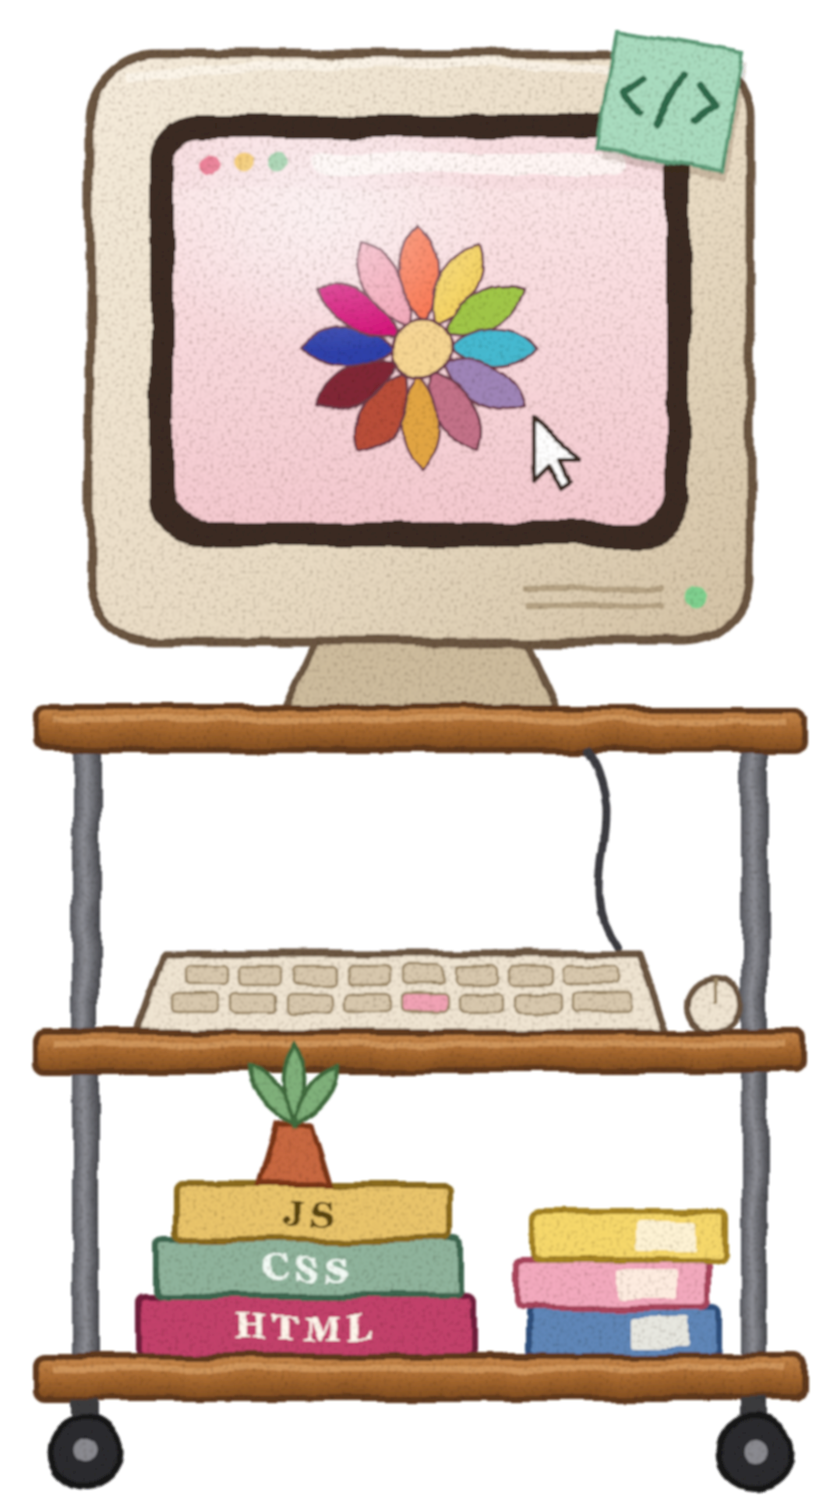
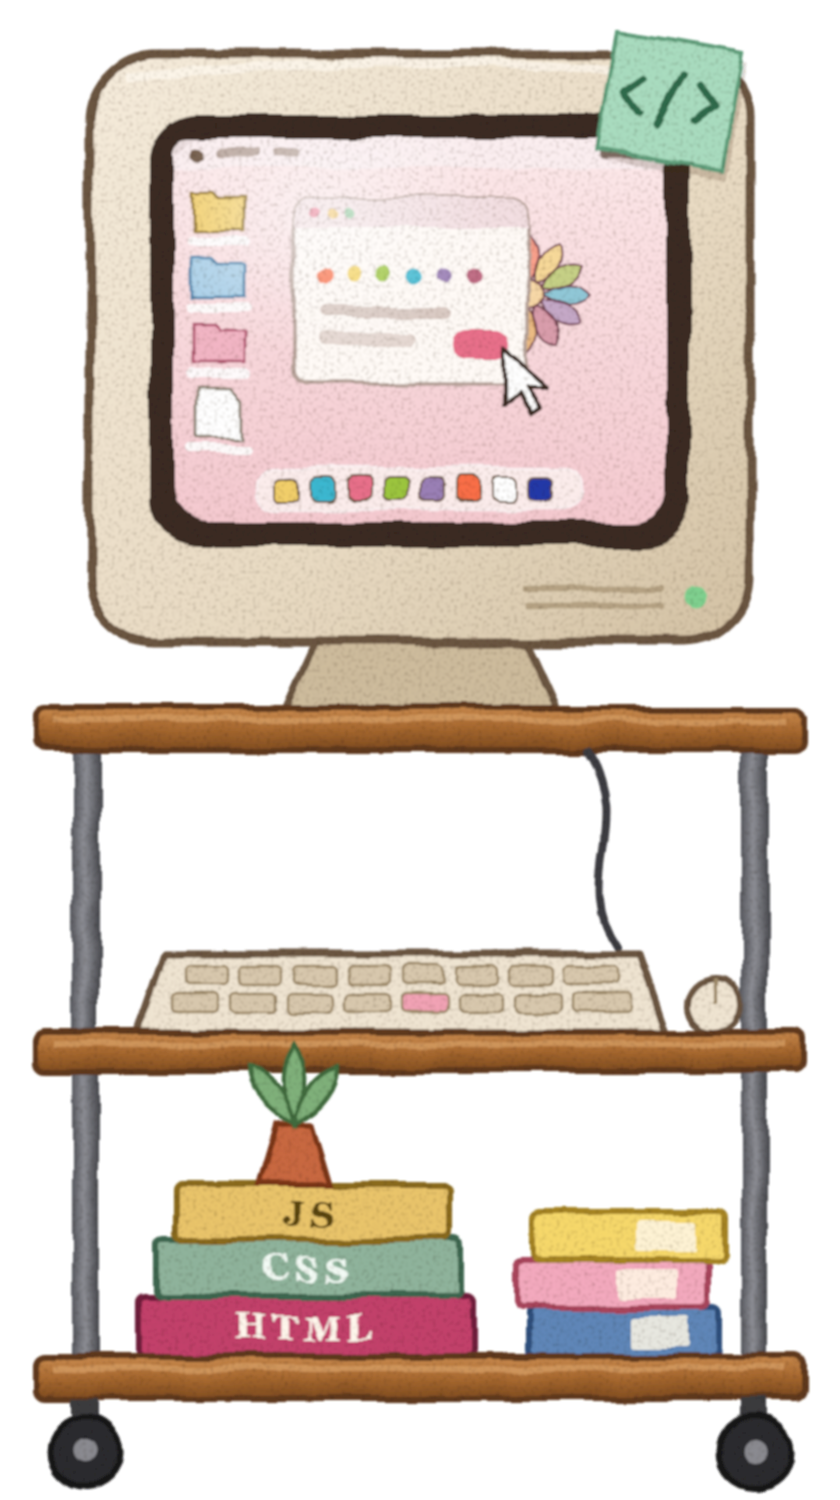
Phone wall v3 to Rihanna's draft: tall noteboard, vertical flowers, horizontal Games & VR shelf
- Phone-only drawings via <picture>: tall cork noteboard with upright notes, a vertical flower
  structure cut from the original flowers, a horizontal two-tier Games & VR shelf built from the
  original shelf's painted pieces + the Quest 3
- Software monitor now shows a computer desktop (desktop + phone)
- New phone placements, vertical labels, re-aimed night spotlight + beams; desktop unchanged

diff --git a/style.css b/style.css
@@ -3571,3 +3571,65 @@ body.lights-init *, body.lights-init *::before, body.lights-init *::after { tran
 .art-item       { filter: saturate(1.08) contrast(1.02) sepia(0.06); }
 .shelf-item     { filter: saturate(1.1) sepia(0.06); }
 .lighting-item  { filter: sepia(0.04); }
+
+/* ═══════════════════════════════════════════════════════════
+   PHONE WALL v3 — laid out to Rihanna's draft (all sizes in vw, from the draft's proportions).
+   Top → bottom: track lights · portrait + nameplate (left) with a tall noteboard, a vertical
+   flower structure and the light switch down the right · a horizontal Games & VR shelf beside
+   the 3D model shelf · the software cart and the easel (its chair running off the right edge).
+   The noteboard, flowers and game shelf use phone-only drawings (<picture> in index.html).
+   ═══════════════════════════════════════════════════════════ */
+@media (max-width: 768px) {
+  :root { --drop: 0vw; }
+  .wall { height: max(calc(var(--top) + 237.6vw), 100vh); }   /* the page ends at the bottom row */
+
+  .lighting-item  { --cw: 71vw; --ar: 0.204; --x0: .127; --x1: .876; --y0: .207; --y1: .844;
+                    top: calc(var(--top) + 7.6vw); left: 14.7vw; }
+  .portrait-item  { top: calc(var(--top) + 24.7vw); left: 3vw; width: 69vw; }
+  .frame-inner    { --fw: 69vw; }
+
+  /* right column: tall noteboard → vertical flowers → light switch */
+  .noteboard-item { --cw: 20vw; --ar: 1.889; --x0: .01; --x1: .99; --y0: .006; --y1: .994;
+                    top: calc(var(--top) + 28.8vw); left: 74.7vw; }
+  .flowers-item   { --cw: 24vw; --ar: 1.395; --x0: .03; --x1: .95; --y0: .04; --y1: .99;
+                    top: calc(var(--top) + 72vw); left: 70.5vw; }
+  .switch-item    { --cw: 9vw; --ar: 1.56;
+                    top: calc(var(--top) + 110vw); left: 77.6vw; }
+
+  /* middle row: horizontal Games & VR shelf + the 3D model shelf */
+  .gametable-item { --cw: 51vw; --ar: 0.643; --x0: .007; --x1: .993; --y0: .025; --y1: 1;
+                    top: calc(var(--top) + 124vw); bottom: auto; left: 2.4vw; }
+  .gametable-overlay { display: none; }                         /* the Quest 3 is in the phone drawing */
+  .gametable-img:not(.gametable-overlay) { -webkit-mask: none; mask: none; }
+  .shelf-item     { --cw: 43vw; --ar: 0.491; --x0: .025; --x1: .983; --y0: .058; --y1: .947;
+                    top: calc(var(--top) + 131vw); left: 54.7vw; }
+
+  /* bottom row: the software cart + the easel, both running off the bottom of the page */
+  .software-item  { --cw: 46vw; top: calc(var(--top) + 158vw); bottom: auto; left: 2.4vw; }
+  .art-item       { --cw: 59.5vw; --ar: 0.75; --x0: .188; --x1: .751; --y0: .053;
+                    top: auto; bottom: 0; left: 50.5vw; }           /* the screen edge runs through the chair */
+
+  /* labels */
+  .lighting-item .hover-label { bottom: -2.4vw; }
+  .noteboard-item .hover-label,
+  .flowers-item .hover-label {                                     /* read bottom-to-top, like the draft */
+    writing-mode: vertical-rl;
+    top: 50%; bottom: auto;
+    padding: 10px 3px;
+  }
+  .noteboard-item .hover-label { left: auto; right: -2vw; transform: translateY(-50%) rotate(180deg); }
+  .flowers-item .hover-label   { left: -3vw; right: auto; transform: translateY(-50%) rotate(180deg); }
+  .gametable-item .hover-label { top: 44%; bottom: auto; left: 0; right: 0; }
+  .shelf-item .hover-label     { bottom: -2.4vw; }
+  .software-item .hover-label  { top: 30%; bottom: auto; left: 0; right: 0; }
+  .art-item .hover-label       { top: 46%; bottom: auto; left: 0; right: calc(100% - 43.4vw); }
+
+  /* night: the portrait's spotlight + the four beams, re-aimed */
+  .night-shade {
+    --pool-key: radial-gradient(ellipse calc(50vw * var(--key-size)) calc(56vw * var(--key-size)) at 37.5vw calc(var(--top) + 64vw), var(--pool-stops-key));
+  }
+  .beam-1 { --bx: 17.2vw; --by: calc(var(--top) + 18.8vw); --bl: 30vw; --ba: -6deg; }
+  .beam-2 { --bx: 34.6vw; --by: calc(var(--top) + 17.3vw); --bl: 40vw; --ba:  4deg; }
+  .beam-3 { --bx: 66.4vw; --by: calc(var(--top) + 18.3vw); --bl: 45vw; --ba: 14deg; }
+  .beam-4 { --bx: 84.3vw; --by: calc(var(--top) + 18.1vw); --bl: 30vw; --ba:  2deg; }
+}

diff --git a/index.html b/index.html
@@ -5,7 +5,7 @@
   <meta name="viewport" content="width=device-width, initial-scale=1.0, viewport-fit=cover" />
   <title>Rihanna Lyu — Portfolio</title>
   <!-- ?v= : bump the date after each update so phones fetch the new style.css + script.js together -->
-  <link rel="stylesheet" href="style.css?v=2026-11-08d" />
+  <link rel="stylesheet" href="style.css?v=2026-11-09" />
   <link href="https://fonts.googleapis.com/css2?family=Playfair+Display:ital,wght@0,400;0,600;1,400&display=swap" rel="stylesheet" />
   <!-- handwriting fonts for the Leave a Note page -->
   <link href="https://fonts.googleapis.com/css2?family=Caveat:wght@500;700&family=Patrick+Hand&family=DM+Sans:wght@400;500&display=swap" rel="stylesheet" />
@@ -560,7 +560,7 @@
       <div class="hover-label">3D Models</div>
     </div>
     <div class="gametable-item" id="gametableItem">
-      <img src="images/gametable.PNG" class="gametable-img" alt="Game table" />
+      <picture><source media="(max-width: 768px)" srcset="images/gametable-horizontal.png" /><img src="images/gametable.PNG" class="gametable-img" alt="Game table" /></picture>
       <!-- VR headset + controller drawn on the same canvas, laid exactly over the shelf -->
       <img src="images/gametable-vr.png" class="gametable-img gametable-overlay" alt="" />
       <div class="hover-label">Games &amp; VR</div>
@@ -578,7 +578,7 @@
       <div class="hover-label">Lighting Design</div>
     </div>
     <div class="flowers-item" id="flowersItem">
-      <img src="images/flowers.PNG" class="flowers-img" alt="Floral design" />
+      <picture><source media="(max-width: 768px)" srcset="images/flowers-vertical.png" /><img src="images/flowers.PNG" class="flowers-img" alt="Floral design" /></picture>
       <div class="hover-label">Floral Design</div>
     </div>
     <div class="window-item" id="windowItem">
@@ -586,7 +586,7 @@
       <div class="hover-label">Digital Art</div>
     </div>
     <div class="noteboard-item" id="noteboardItem" role="button" tabindex="0" aria-label="Open the noteboard and leave a note">
-      <img src="images/noteboard.png" class="noteboard-img" alt="" />
+      <picture><source media="(max-width: 768px)" srcset="images/noteboard-vertical.png" /><img src="images/noteboard.png" class="noteboard-img" alt="" /></picture>
       <div class="hover-label">Leave a Note</div>
     </div>
     <div class="software-item" id="softwareItem" role="button" tabindex="0" aria-label="Open Software and Websites">
